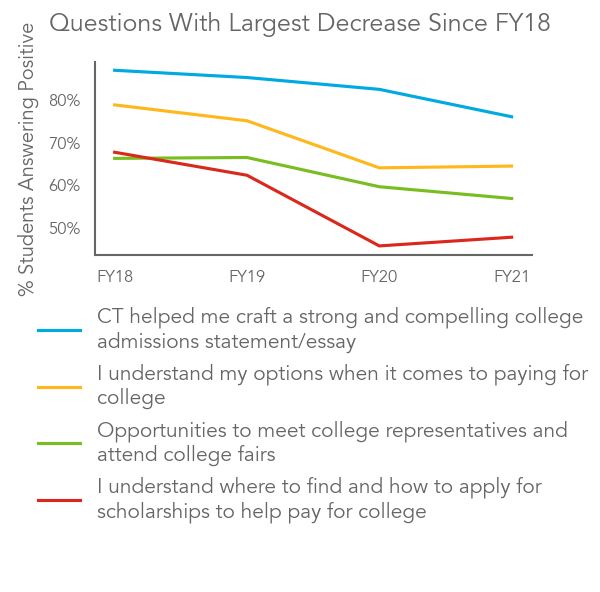
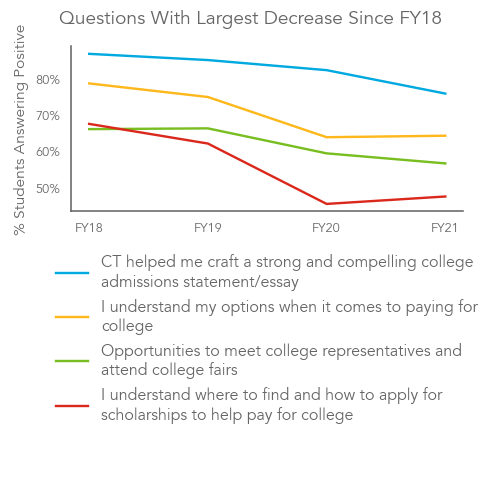
adjusted charts and add section charts/text

Changed region(s): [[0.03, 0.0, 0.99, 0.9099], [0.51, 0.3522, 0.57, 0.3816]]

diff --git a/src/plots.py b/src/plots.py
@@ -19,8 +19,8 @@ plt.style.use("college_track")
 mpl.rcParams.update({"font.size": 8})
 
 
-mpl.rcParams.update({"figure.figsize": [4.0, 3.95]})
-mpl.rcParams.update({"figure.dpi": 150})
+mpl.rcParams.update({"figure.figsize": [4.35, 4.15]})
+mpl.rcParams.update({"figure.dpi": 115})
 
 colors = plt.rcParams["axes.prop_cycle"].by_key()["color"]
 
@@ -84,3 +84,149 @@ smallest_since_fy20_plot = helpers.plot_bar_graph(
 
 smallest_since_fy20_plot.savefig("../images/smallest_since_fy20_plot.png")
 
+notable_divergencies_df = pd.read_pickle(
+    "../data/interim/notable_divergencies_df_with_multiple_groupings.pkl"
+)
+
+nd_df = notable_divergencies_df.merge(
+    column_df, left_on="question", right_on="clean_columns", how="left"
+)
+
+nd_df.loc[:, "original_columns"] = nd_df.original_columns.str.strip()
+
+nd_df["abs_diff"] = abs(nd_df.group_mean - nd_df.value)
+
+nd_df_subset = nd_df[nd_df["count"] >= 30]
+
+nd_df_subset.sort_values(["abs_diff"], ascending=False, inplace=True)
+
+
+nd_df_subset = nd_df_subset[nd_df_subset.grouping != "NPS_Score"]
+nd_df_subset = nd_df_subset[nd_df_subset.question != "in_the_area_outside_your_center"]
+
+nd_df_subset = nd_df_subset[~nd_df_subset["grouping"].str.contains("site_short")]
+
+most_divergent = nd_df_subset.groupby(["section", "type"]).head(1)
+
+most_divergent.sort_values(["value"], ascending=False, inplace=True)
+
+
+# nd_df_above = nd_df[nd_df.type == "above_average"]
+
+
+# top_nd_df_above = nd_df_above.groupby(["section"]).head(3)
+
+nd_df_long = pd.melt(
+    most_divergent,
+    id_vars=["question", "index_name", "section", "type", "original_columns"],
+    value_vars=["value", "group_mean"],
+)
+
+nd_df_long.loc[nd_df_long.variable == "value", "variable"] = nd_df_long.loc[
+    nd_df_long.variable == "value", "index_name"
+]
+
+nd_df_long.loc[nd_df_long.variable == "group_mean", "variable"] = "Question Avg."
+
+
+survey_sections = {
+    "ct_site_section": "Notable CT Site and Safety Questions",
+    "academic_affairs_section": "Notable Academic Affairs Questions",
+    "student_life_section": "Notable Student Life Questions",
+    "college_prep_section": "Notable College Prep Questions",
+    "coaching_programming_section": "Notable Coaching Questions",
+    "wellness_programming_section": "Notable Wellness Questions",
+    "virtual_programming_section": "Notable Virtual Programming Questions",
+}
+
+
+def plot_notable_questions_graph(df, title, colors):
+    fig, ax = plt.subplots(figsize=(6.5, 3.75))
+    labels = ["\n".join(wrap(l, 25)) for l in df.original_columns]
+    labels = list(np.unique(labels))
+    colors = ["#78BE20", "#DA291C", "#666"]
+    if len(df.variable) == 2:
+        colors = ["#78BE20", "#666"]
+    fig.suptitle(title, fontsize=12)
+
+    sns.barplot(
+        data=df,
+        x="value",
+        y="original_columns",
+        hue="variable",
+        ax=ax,
+        saturation=1,
+        orient="h",
+        palette=colors,
+    )
+
+    ax.legend(loc="upper center", bbox_to_anchor=(0.5, -0.17), ncol=2, fontsize=8)
+
+    ax.set_xlabel("% Students Answering Positive")
+
+    ax.set_yticklabels(labels, fontsize=10)
+
+    ax.set_ylabel("Question")
+    ax.xaxis.set_major_formatter(mtick.PercentFormatter(1, decimals=0))
+
+    for p in ax.patches:
+        width = p.get_width()  # get bar length
+        ax.text(
+            width + 0.01,  # set the text at 1 unit right of the bar
+            p.get_y() + p.get_height() / 2,  # get Y coordinate + X coordinate / 2
+            "{:.0%}".format(width),  # set variable to display, 2 decimals
+            ha="left",  # horizontal alignment
+            va="center",
+        )  # vertical alignment
+    return fig
+
+
+for survey_section, title in survey_sections.items():
+    _df = nd_df_long[nd_df_long.section == survey_section]
+    # _df.sort_values('value',inplace=True)
+    _plot = plot_notable_questions_graph(_df, title, colors)
+    plot_filename = "../images/" + survey_section + "_plot.png"
+    _plot.savefig(plot_filename)
+
+
+custom_palette = {}
+for q in set(nd_df_long.original_columns):
+    score_type = nd_df_long[nd_df_long.original_columns == q]["type"]
+    if score_type == "above_average":
+        custom_palette[q] = "#78BE20"
+    elif score_type == "below_average":
+        custom_palette[q] = "#DA291C"
+    else:
+        custom_palette[q] = "#666666"
+
+#####
+
+test = nd_df_subset[nd_df_subset.section == "virtual_programming_section"]
+
+test[test.type == "above_average"].index_name.value_counts()
+
+test[test.type == "below_average"].index_name.value_counts()
+
+
+test.index_name.value_counts()
+
+
+df[
+    [
+        "site_short",
+        "because_of_coaching_i_have_been_able_to_form_supportive_relationships_with_ct_st",
+        "because_of_coaching_i_have_been_able_to_form_supportive_relationships_with_peers",
+        "because_of_coaching_i_am_more_self_motivated_and_have_a_sense_of_ownership_to_ac",
+    ]
+].groupby("site_short").mean()
+
+test_df = df[
+    [
+        # 'site_short',
+        "because_of_coaching_i_have_been_able_to_form_supportive_relationships_with_ct_st",
+        "because_of_coaching_i_have_been_able_to_form_supportive_relationships_with_peers",
+        "because_of_coaching_i_am_more_self_motivated_and_have_a_sense_of_ownership_to_ac",
+    ]
+]
+
+test_df.melt().mean()

diff --git a/src/executive_summary.py b/src/executive_summary.py
@@ -60,8 +60,18 @@ report = dp.Report(
         dp.File(file="images/smallest_since_fy20_plot.png"),
         columns=2,
     ),
-    dp.Text(file="text/executive_summary_pt2.md"),
-    type=dp.ReportType.ARTICLE
+    dp.Text(file="text/executive_summary_pt2.md").format(
+        ct_site_plot=dp.File(file="images/ct_site_section_plot.png"),
+        academic_affairs_plot=dp.File(file="images/academic_affairs_section_plot.png"),
+        student_life_plot=dp.File(file="images/student_life_section_plot.png"),
+        college_prep_plot=dp.File(file="images/college_prep_section_plot.png"),
+        coaching_plot=dp.File(file="images/coaching_programming_section_plot.png"),
+        wellness_plot=dp.File(file="images/wellness_programming_section_plot.png"),
+        virtual_programming_plot=dp.File(
+            file="images/virtual_programming_section_plot.png"
+        ),
+    ),
+    type=dp.ReportType.REPORT
     # dp.Group(*plots[:2], columns=2),
     # plots[2],
     # dp.DataTable(subset, caption=f'Dataset for {countries}'),

diff --git a/src/helpers.py b/src/helpers.py
@@ -140,7 +140,7 @@ def plot_line_graph(df, title):
 def plot_bar_graph(df, title):
     fig, ax = plt.subplots()
     df.sort_values(by="FY21", inplace=True, ascending=False)
-    labels = ["\n".join(wrap(l, 25)) for l in df.index]
+    labels = ["\n".join(wrap(l, 35)) for l in df.index]
 
     fig.suptitle(title, fontsize=12)
 
@@ -157,6 +157,15 @@ def plot_bar_graph(df, title):
 
     ax.set_ylabel("Question")
     ax.xaxis.set_major_formatter(mtick.PercentFormatter(1, decimals=0))
+    for p in ax.patches:
+        width = p.get_width()  # get bar length
+        ax.text(
+            width + 0.01,  # set the text at 1 unit right of the bar
+            p.get_y() + p.get_height() / 2,  # get Y coordinate + X coordinate / 2
+            "{:.0%}".format(width),  # set variable to display, 2 decimals
+            ha="left",  # horizontal alignment
+            va="center",
+        )  # vertical alignment
     return fig
 
 

diff --git a/text/executive_summary_pt2.md b/text/executive_summary_pt2.md
@@ -1,5 +1,5 @@
 ### Analytic Observations
-This year we did a deeper dive into understanding how students' response might predict their general sentiment towards College Track. For example, did students who answered unfavorably to our NPS question also answer other questions unfavorably? 
+This year we did a deeper dive into understanding how students' response might predict their general sentiment towards College Track. For example, did students who answered unfavorably to our NPS question also answer other questions negatively? 
 
 
 Some questions stood out as being remarkably good indicators of how students evaluated College Track. 
@@ -7,7 +7,6 @@ Some questions stood out as being remarkably good indicators of how students eva
 For instance, students were asked the following question, "Because of coaching, I am more self-motivated and have a sense of ownership to accomplish my goals." 
 
 Around 80% of students who answered that question positively were also classified as a "Promoter" in the NPS question.  In addition, around 70% of students who answered the question unfavorably were either classified as passive or a detractor.
-
 
 Two other questions that had a strong correlation with how students who evaluated College Track positively were:
 - "How excited are you about going to your virtual College Track workshops?"
@@ -19,42 +18,108 @@ On the flip side, a few questions were strong predictors of a student being a Co
 
 The question that was the strongest predictor of a student being a detractor was, "CT helps me better understand that I am in control of my academic performance." Around 70% of students who did not answer that question positively were classified as a detractor. 
 
-Two other questions stood out as strong indicators of a student being a detractor were:
+Two other questions that stood out as strong indicators of a student being a detractor were:
 
 -  "When I'm at CT I feel I belong."
-- "My site is run effectively." 
-    - For this question, we provided students with examples of what an "effective" site might look like.
+- "My site is run effectively."* 
 
-
-
-
-
-
-
-### Section Highlights
+*For this question, we provided students with examples of what an "effective" site might look like.
 
 #### Black Male Students
 
 #### AAPI Students
 
-#### CT Strengths and Weaknesses
+### Section Highlights
+The following section highlights some noteworthy findings on speciifc types of questions asked. For each of these sections there is a chart that highlights if a specific group of students across College Track was notably above or below the average positive rate for a given question. 
 
-#### Site and Safety
+Each chart just highlights the two questions with the largest positive and negative gap for a given group of questions. For this we only focused on notable groups of students across all College Track. To see differences among sites you can use the Data Studio dashboard. 
+
+Other notable groups of students that had favorable responses to these questions were students from Boyle Heights (specifically their male students), and male students at The Durant Center. 
+
+
+#### CT Experience
+Overall % of Questions Marked Positive: 77%
+
+Site With Highest Positive Rate: Boyle Heights
+
+{{ct_site_plot}}
+
+As will come up multiple times, males tend to have a more favorable outlook on a number of questions asked. In this example, specifically male, Asian-Americans had a much higher positivity rate (95%) when asked about prioritizing CT attendance compared to the College Track average of 81%. 
+
+Also as already noted, the Class of 2024 often has a more negative response on a number of questions, in this case when asked about fiendships developed through College Track. 
+
+
 
 #### Academic Affairs
+Overall % of Questions Marked Positive: 64%
 
-#### Math Supports
+Site With Highest Positive Rate: The Durant Center
+
+{{academic_affairs_plot}}
+
+As with the previous section, male, Asian-Americans had notably higher remarks when asked how helpful College Track has been with providing academic resources. On all the academic affairs questions however The Durant Center stood out as having a particularly positive response as did the Class of 2021. 
+
+Once again, the Class of 2024 did standout as having a less positive outlook when asked about working with students in study groups. In addition to this group of students, our female asians americans also had a generally less favorable view of College Track's academic supports. 
 
 #### Student Life
+Overall % of Questions Marked Positive: 70%
+
+Site With Highest Positive Rate: Denver
+
+{{student_life_plot}}
+
+Once again, males stood out has having a more favorable view on many student life questions, but specifically African American male students had the most favorable response when asked about finding their life purpose. Ward 8, also had notably high responses among all their students, but speficially their female students. 
+
+Across College Track our female Asian-American students did have 
+
+COME BACK TO
 
 #### College Prep
+Overall % of Questions Marked Positive: 34%
+
+Site With Highest Positive Rate: The Durant Center
+
+{{college_prep_plot}}
+
+Unsurprisingly, and certainlly a good thing, our Class of 2021 students had the highest praise for our College Prep programming, and in this example they thought highlighly of our college fairs and networking opportunities. New Orleans students, specifically their males and Boyle Heights students, specifically their females, also had high praise for these services. Among our non mature sites, Ward 8 stood out as having success in this area among their female students. 
+
+Overall, our Class of 2024 students had the lowest views on these questions, but our female Asian-Americans also had less favorable remarks. 
+
 
 #### Coaching 
+Overall % of Questions Marked Positive: 69%
+
+Site With Highest Positive Rate: The Durant Center
+{{coaching_plot}}
+
+For coaching, students had the most diverging views on the same question. As we have seen before, our Class of 2021 students is viewing many services , in this case coaching, more favorably while our Class of 2024 students has yet to relate to these services. 
+
+Students at The Durant Center and Aurora (specifically Aurora's male students) also had high remarks for many of these questions. 
+
+
 
 #### Wellness
 
+Overall % of Questions Marked Positive: 40%
+
+Site With Highest Positive Rate: Aurora
+{{wellness_plot}}
+
+For wellness, there were no notable College Track wide groups of students who had less favorable views! While our male African American students did have a much higher positivity rate when asked how coaching has impacted their mental health. This trend broadly extended to our male students overall across all ethnicities. 
+
+
+
+
+
 #### Virtual Programming
 
-#### Seniors
+Overall % of Questions Marked Positive: 21%
 
-#### 9th - 11th Graders
+Site With Highest Positive Rate: Crenshaw
+
+{{virtual_programming_plot}}
+
+Due to COVID-19 and the neccesity to go virtual, we added some questions around College Track's delivery of virtual programming. In this area, Class of 2024 students did have a more positive outlook and indicated they are more excited to attend virtual programming. Although, that number is still somewhat low with only 49% of Class of 2024 students responding positivly. 
+
+The Durant Center was our only site that did more favorably among these questions, although the overall numbers are still lower than College Track would like. 
+

diff --git a/text/executive_summary_pt1.md b/text/executive_summary_pt1.md
@@ -17,7 +17,7 @@ Of note, Watts had the third highest rate of promoters, with 66% of students res
 
 
 #### General Highlights
-Across all of the questions, the following questions were the most positive*. 
+Across all of the questions, the following questions were the most positive.
 
 {most_positive}
 
@@ -25,15 +25,13 @@ Likewise, across all questions, the following questions were the least positive.
 
 {most_negative}
 
-*A question was marked positive if over 70% of students responded positively.
-
 Note, many of the questions with less positive responses were new questions added to understand how students were handling remote education.
 
 A few sites stood out as having particular positive responses across all their questions. Boyle Heights, Ward 8, and The Durant Center all had most students answering positively to over 60% of questions asked.
 
 The Durant Center, in particular, had a notably higher positive response rate than the College Track average on about 23% of all questions asked. 
 
-Across high school classes, the Class of 2021 had the most positive outlook on College Track. These students answered questions favorably just over 70% of the time. In contrast, the Class of 2024 only answered around 30% of question with a positive outlook.
+Across high school classes, the Class of 2021 had the most positive outlook on College Track. These students answered questions favorably just over 70% of the time. In contrast, the Class of 2024 only answered around 30% of questions with a positive outlook.
 
 Unsurprisingly, students identified as a "Detractor" - as determined by our NPS question, had notably less positive answers on almost all (87%) of questions asked. Students marked as "Passive" also had a less favorable outlook, but only on around 30% of questions. No other student grouping across all of College Track had a consistently less positive outlook on questions.
 
@@ -47,6 +45,6 @@ Finally, students with above a 3.25 GPA answered questions over 50% of questions
 
 Since College Track started offering the survey, a number of questions have remained the same and have students answer them more positively or negatively. The following charts break down these trends since FY18 and FY20 (last year). Generally speaking, none of the questions show overly dramatic improvements over either of the time periods. 
 
-However, a few questions have seen notable decreases in positive responses since FY18. Most notably, is the question, "I understand where to find and how to apply for scholarships to help pay for college." That has gone from a high near 70% of students answering positively in FY18 to just below 50% in FY21.
+However, a few questions have seen possibly concerning decreases in positive responses since FY18. Most notably, is the question, "I understand where to find and how to apply for scholarships to help pay for college." That has gone from a high near 70% of students answering positively in FY18 to just below 50% in FY21.
 
 Likewise, a similar question, "I understand my options when it comes to paying for college" has seen a decrease from nearly 80% positive response to around 70%. 
